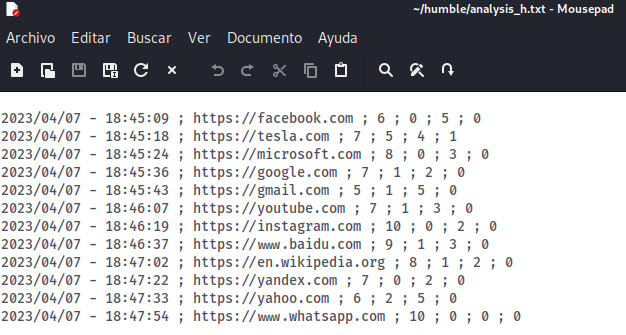
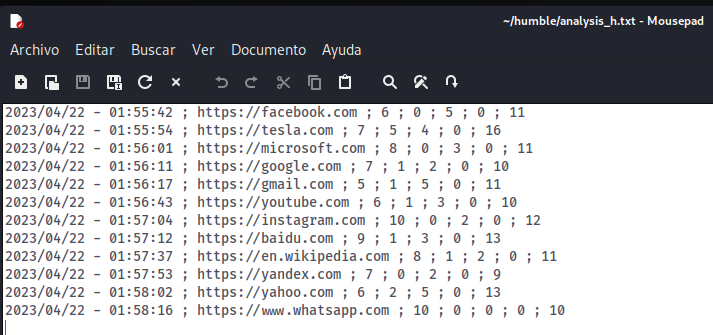
Minor: Update README.

diff --git a/README.md b/README.md
@@ -95,7 +95,7 @@ HTTP Headers Analyzer<br />
 <img src="https://github.com/rfc-st/humble/blob/master/screenshots/humble_html_s.PNG" alt="Export analysis to HTML" width=70% height=70%>
 </p>
 <br />
-.: Analysis history file: Date + URL + Checks (Missing, Fingerprint, Deprecated/Insecure and Empty headers).<br />
+.: Analysis history file: Date + URL + Checks (Missing, Fingerprint, Deprecated/Insecure and Empty headers) + Total warnings.<br />
 <p></p>
 <p align="center">
 <img src="https://github.com/rfc-st/humble/blob/master/screenshots/humble_ah.PNG" alt="History of analysis performed">
